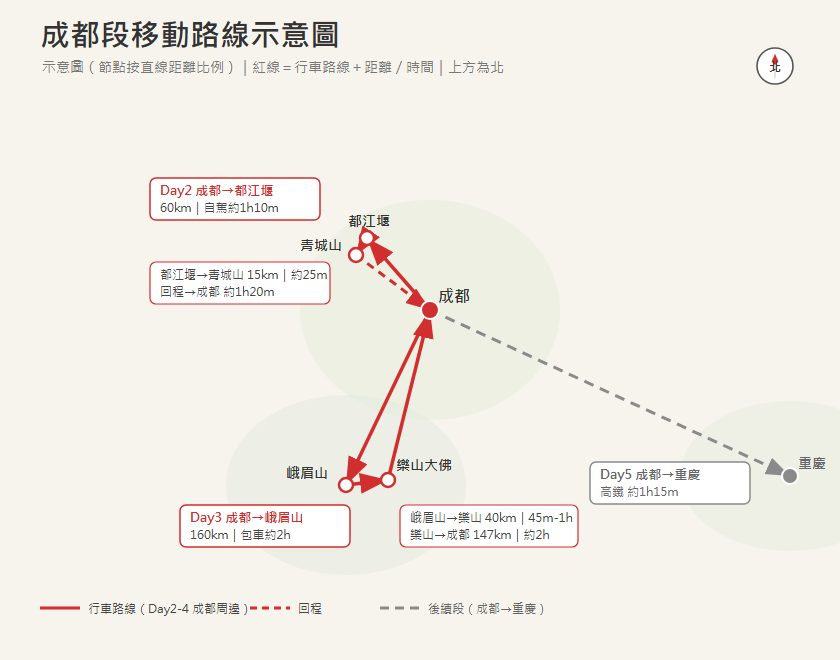
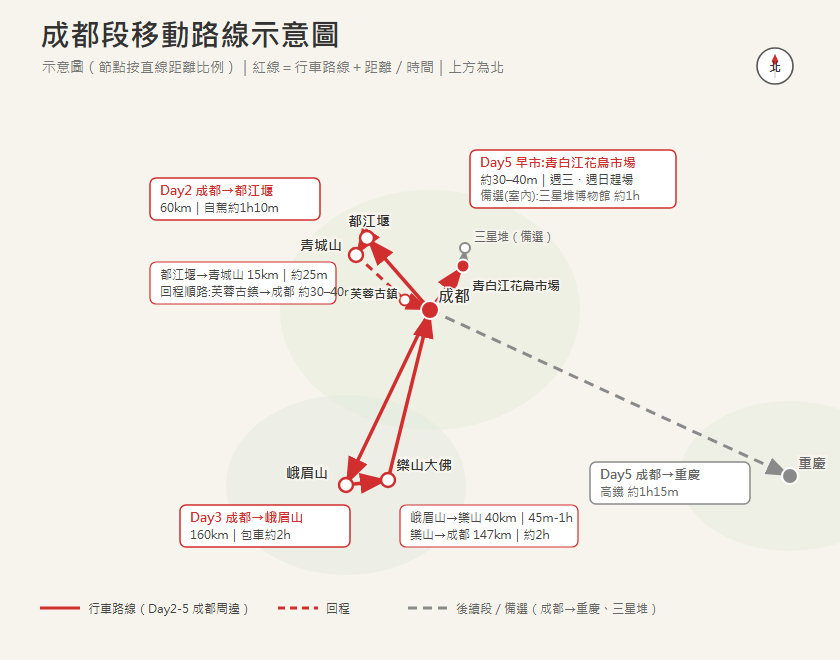
docs: 調整 Day5 早市安排並更新成都段路線圖
- Day5 早市首選改為青白江花鳥市場（週三趕場日）
- 新增備選二蘇坡大棚市場、備選三玉林菜市場
- 調整 Day5 上午時段（07:30 出發、10:50 逛超市）
- 路線圖新增青白江、三星堆備選、芙蓉古鎮節點

diff --git a/成都重慶九天行程.md b/成都重慶九天行程.md
@@ -207,7 +207,7 @@
 
 ## Day 5｜03-03（三）成都市區深度遊 → 晚上赴重慶
 
-**路線**：成都市區（早市集・精品超市・老街）→ 高鐵赴重慶
+**路線**：成都（東北郊早市＋市區超市・老街）→ 高鐵赴重慶
 
 **車程**：成都→重慶 高鐵約 1h15m–1h30m
 
@@ -219,8 +219,10 @@
 
 | 時間          | 行程                                                    | 停留          |
 | ----------- | ----------------------------------------------------- | ----------- |
-| 07:30–09:30 | **成都早市集**：如玉林菜市場／社區早市，感受在地生活，採買特色食材與小吃                | 約 2h        |
-| 09:30–11:30 | **精品超市／商圈**：伊藤洋華堂、盒馬鮮生等，逛精選食品、伴手禮                     | 約 2h        |
+| 07:30–08:10 | 出發前往青白江花鳥市場（市區東北，車程約 30–40m）                  | 40m         |
+| 08:10–10:00 | **成都早市集（首選青白江花鳥市場）**：週三趕場日最熱鬧；備選二＝青羊區蘇坡大棚市場、備選三＝玉林菜市場 | 約 2h        |
+| 10:00–10:40 | 返回市區                                              | 40m         |
+| 10:50–12:00 | **精品超市／商圈**：伊藤洋華堂、盒馬鮮生等，逛精選食品、伴手禮               | 約 1h        |
 | 12:00–13:00 | 午餐                                                    | 1h          |
 | 13:00–16:00 | **成都老街／景點**（擇一或組合）：寬窄巷子、錦里、武侯祠、太古里、人民公園鶴鳴茶社喝壩壩茶、賞川劇變臉 | 約 3h        |
 | 16:30–17:00 | 前往成都東站                                                | 30m         |
@@ -231,6 +233,10 @@
 > **選擇題**
 >
 > ：若想看國寶大熊貓，可將上午早市改為「成都大熊貓繁育研究基地」（市區東北郊，車程約 30–40m，建議 07:30 前到看貓最活潑）。Day 5 高鐵建議訂 18:00 之後，保留下午逛市區彈性。
+
+> **早市備選（依序）**
+>
+> ：① 首選＝**青白江花鳥市場**（青白江區大彎街道石家碾東路 289 號；週三・週日上午趕場，03-03 恰逢週三）；② 備選二＝**青羊區蘇坡大棚市場**（中鵬西路 28 號；每月逢 3、6、9 大集，03-03 逢 3）；③ 備選三＝**玉林菜市場**（原案，武侯區玉林街道，市區內最順路）。若當日下雨／寒流，直接切換**三星堆博物館**（室內備選，見上）。
 
 > **備選室內行程（三星堆）**
 >
